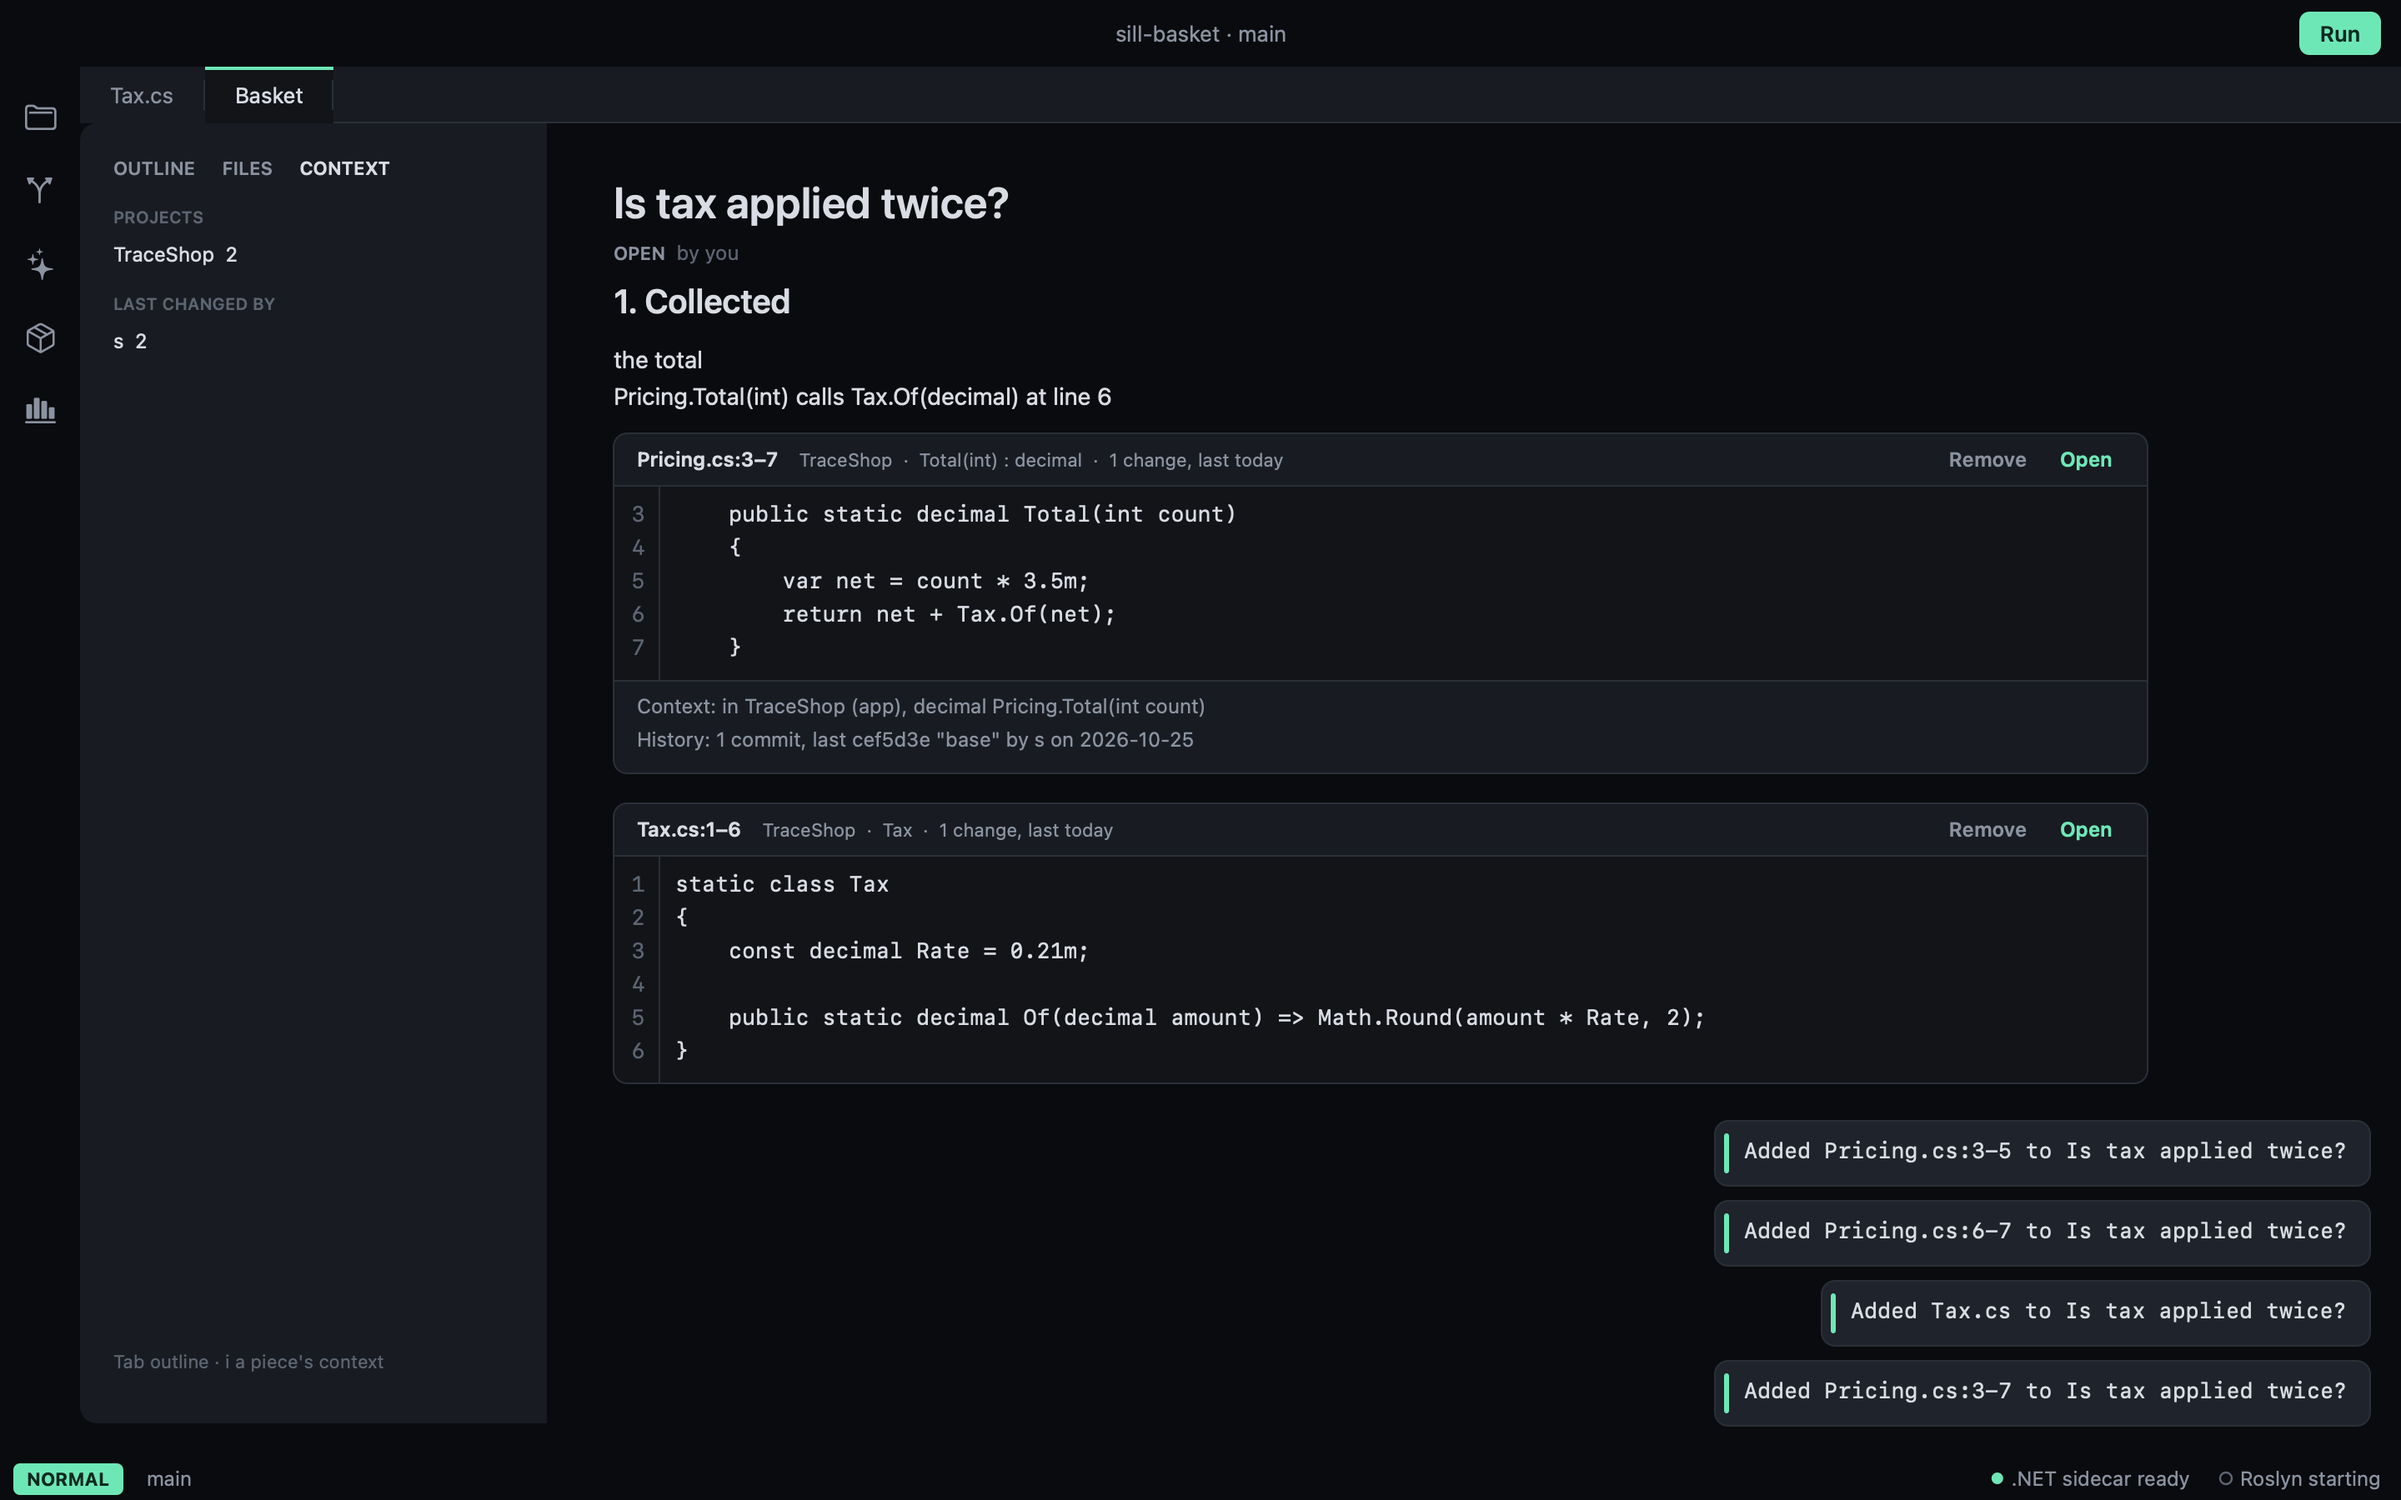
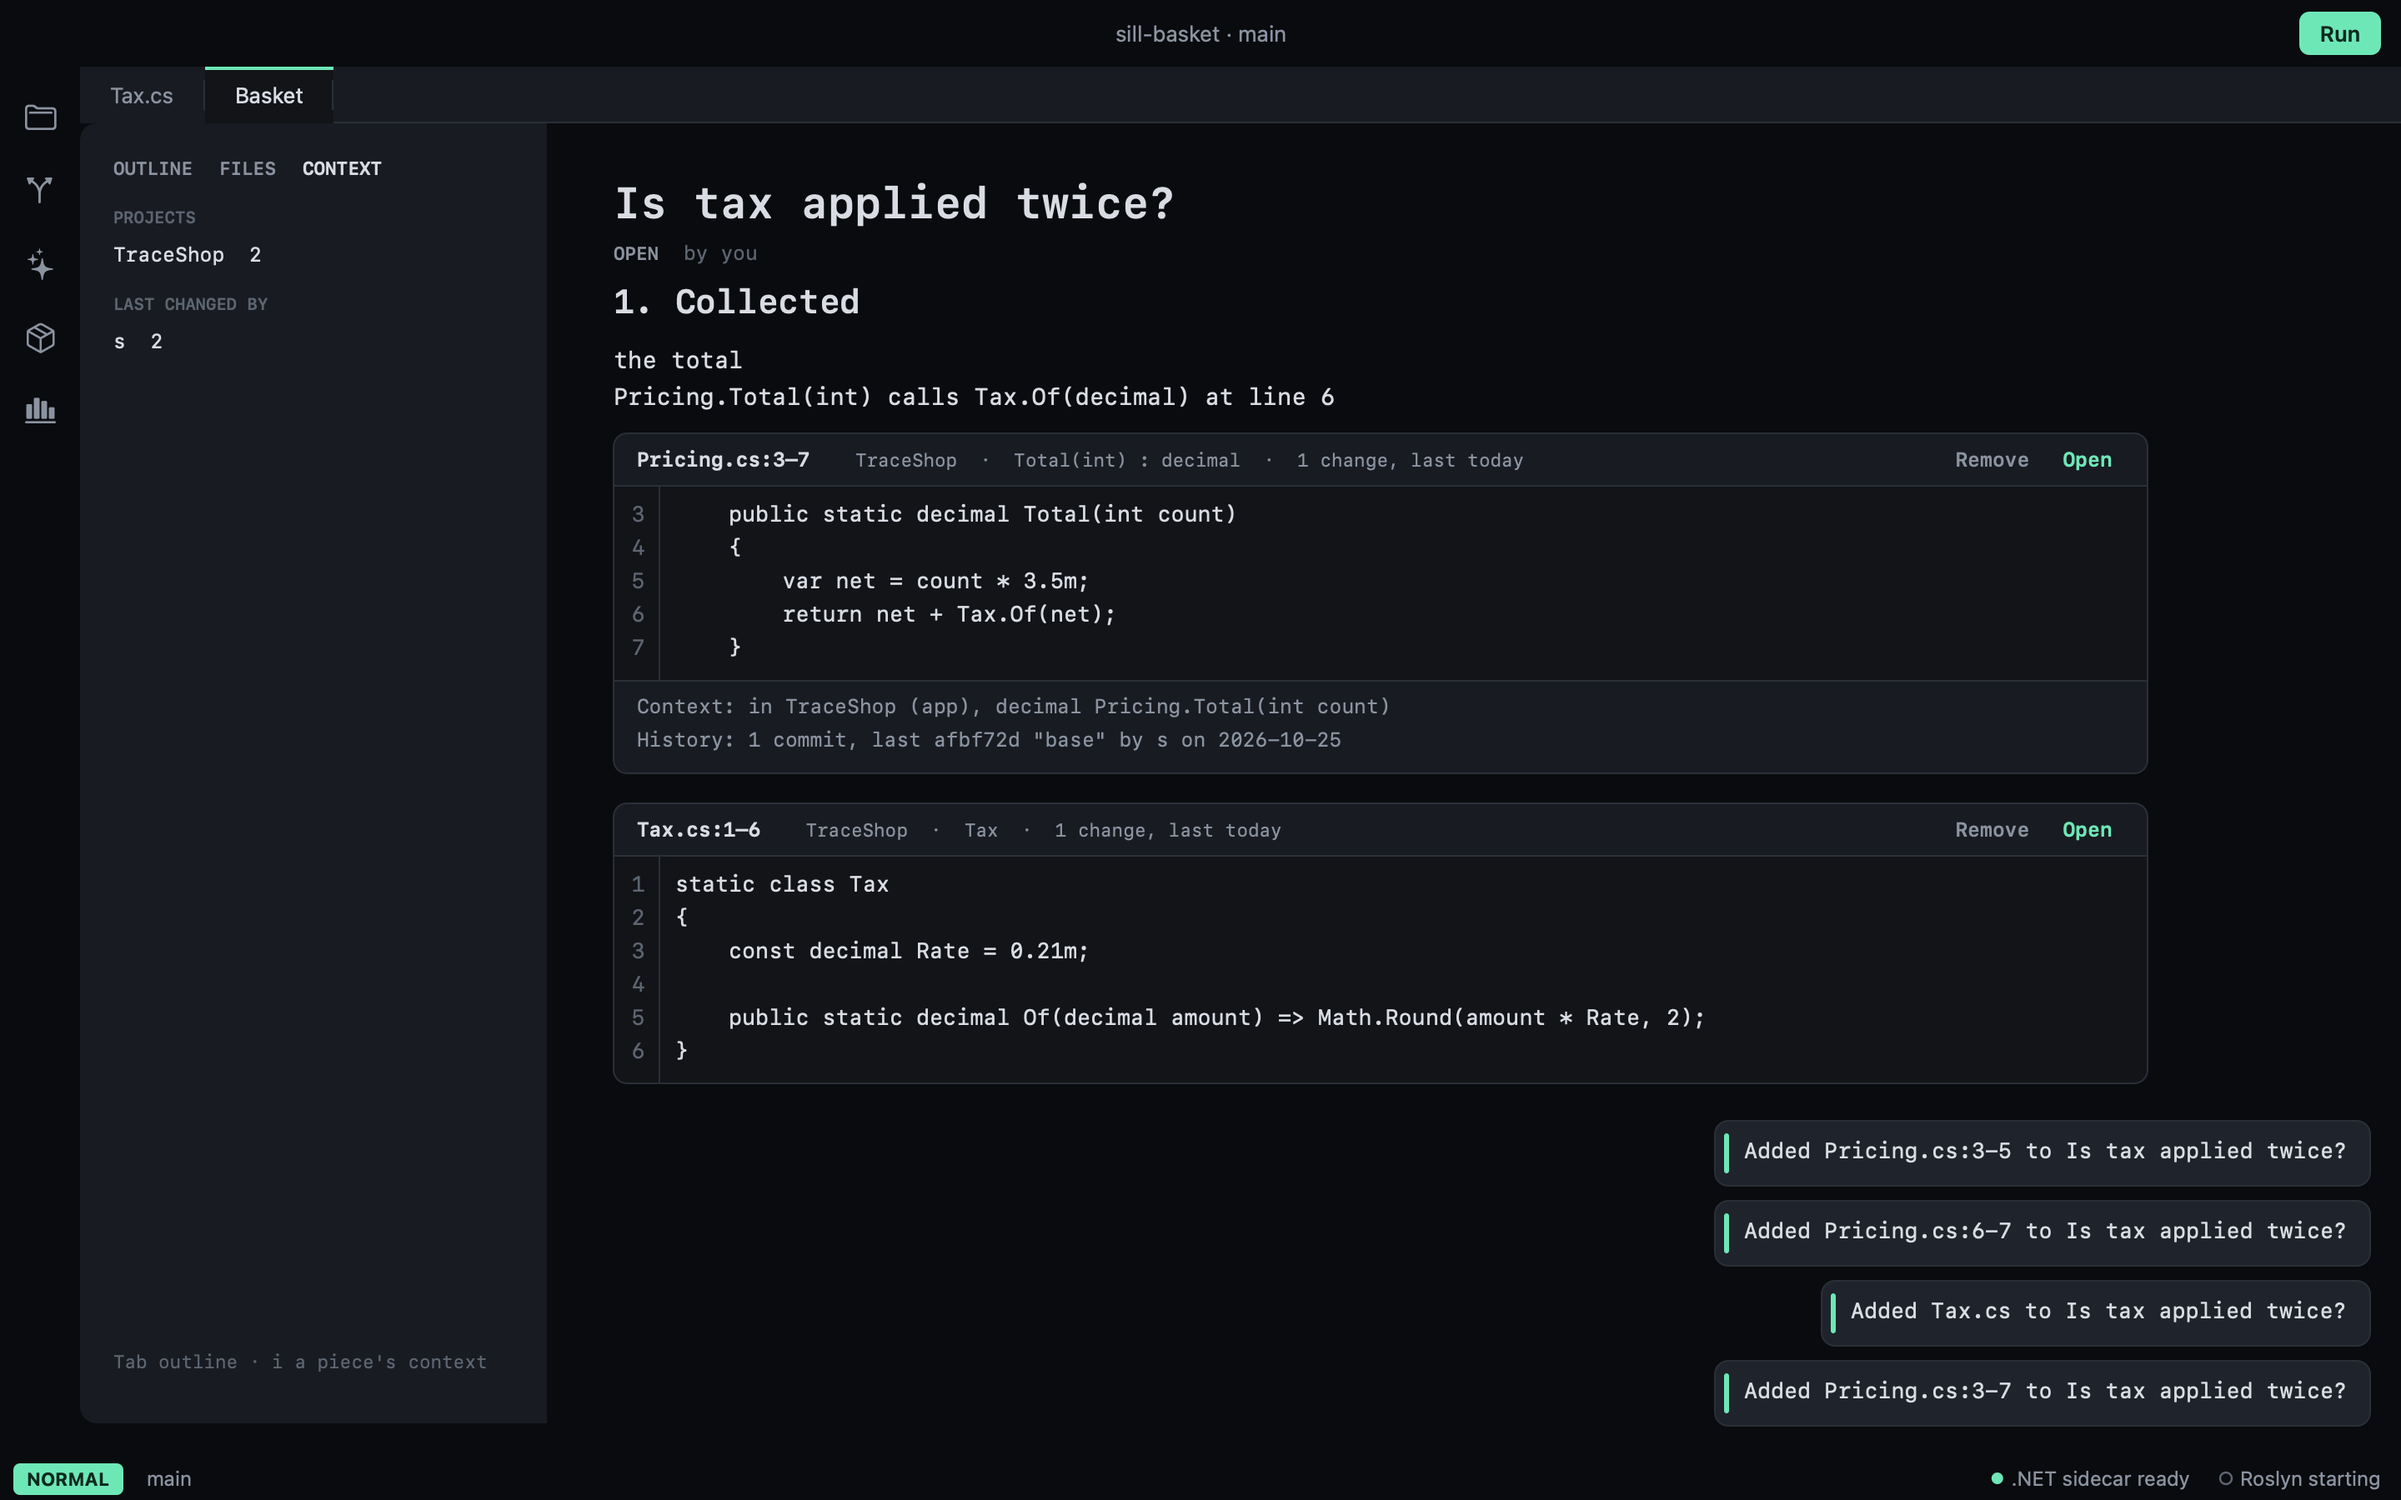
Notebooks in the editor's monospaced font throughout
Walkthroughs, reviews and baskets set every line in the editor's font, at the sizes and colours they had; headings bold.

diff --git a/Sources/SillApp/WalkView.swift b/Sources/SillApp/WalkView.swift
@@ -68,10 +68,14 @@ final class WalkView: NSView, ToolContent {
         _ color: NSColor = Design.text,
         weight: NSFont.Weight = .regular
     ) -> NSAttributedString {
-        NSAttributedString(
-            string: string,
-            attributes: [.font: Design.ui(size, weight: weight), .foregroundColor: color]
-        )
+        NSAttributedString(string: string, attributes: [.font: Self.font(size, weight), .foregroundColor: color])
+    }
+
+    /// The notebook is in the editor's monospaced font throughout: this size of it, bold from semibold up.
+    static func font(_ size: CGFloat, _ weight: NSFont.Weight) -> NSFont {
+        let base = NSFont(descriptor: EditorFont.metrics.regular.fontDescriptor, size: size) ??
+            NSFont.monospacedSystemFont(ofSize: size, weight: weight)
+        return weight >= .semibold ? NSFontManager.shared.convert(base, toHaveTrait: .boldFontMask) : base
     }
 
     private func mono(_ string: String, _ color: NSColor = Design.text) -> NSAttributedString {

diff --git a/docs/plan.md b/docs/plan.md
@@ -784,6 +784,9 @@ Days 1 and 2 left these behind, for later days to pick up or keep:
   a line-number gutter and its rule, a footer inside the same 1 pt border for a piece's details and an example's
   output, a modified-coloured border on a piece changed since it was added, a diff's added and removed rows tinted
   across. Looked at in the basket and review walkthrough screenshots; the checks drive the same actions.
+  - Monospaced throughout (owner: "Monospace font the whole thing. Different sizes and colors is fine"): the
+    notebook's text is the editor's font at each size, bold from semibold up (`WalkView.font`); `code spans` keep
+    their colour to stand out.
   - Also: a basket piece's context collected after the piece had changed (lines joined) was saved under its old
     anchor, counting it twice in the Context menu; it is dropped now. The basket check waits for exactly the
     basket's pieces, but the race clears on the next read, so removing the guard does not fail it reliably.
